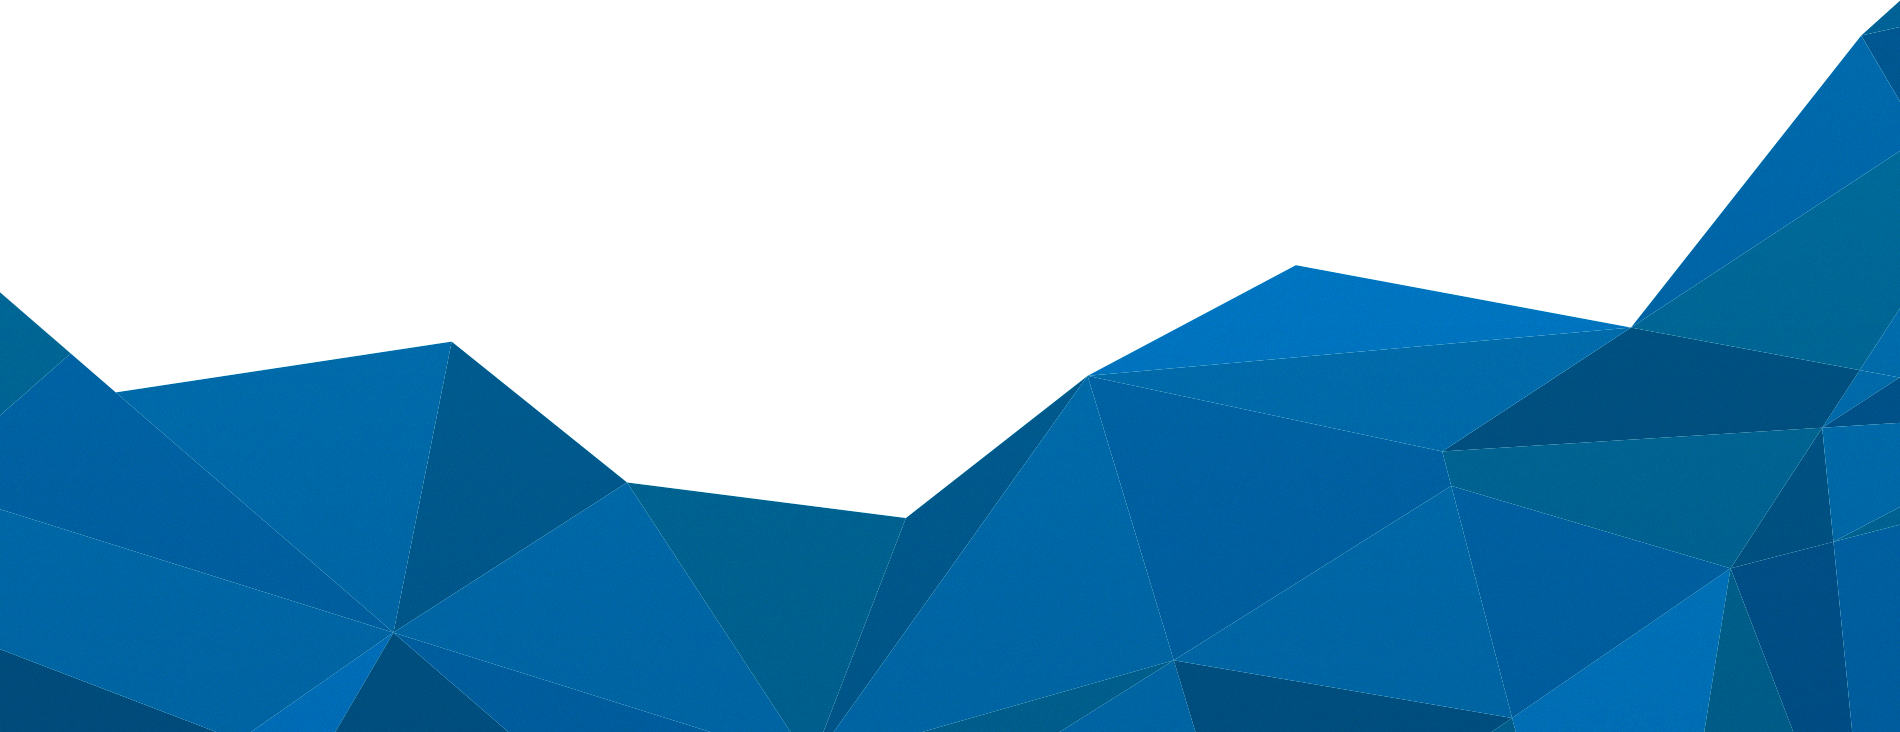
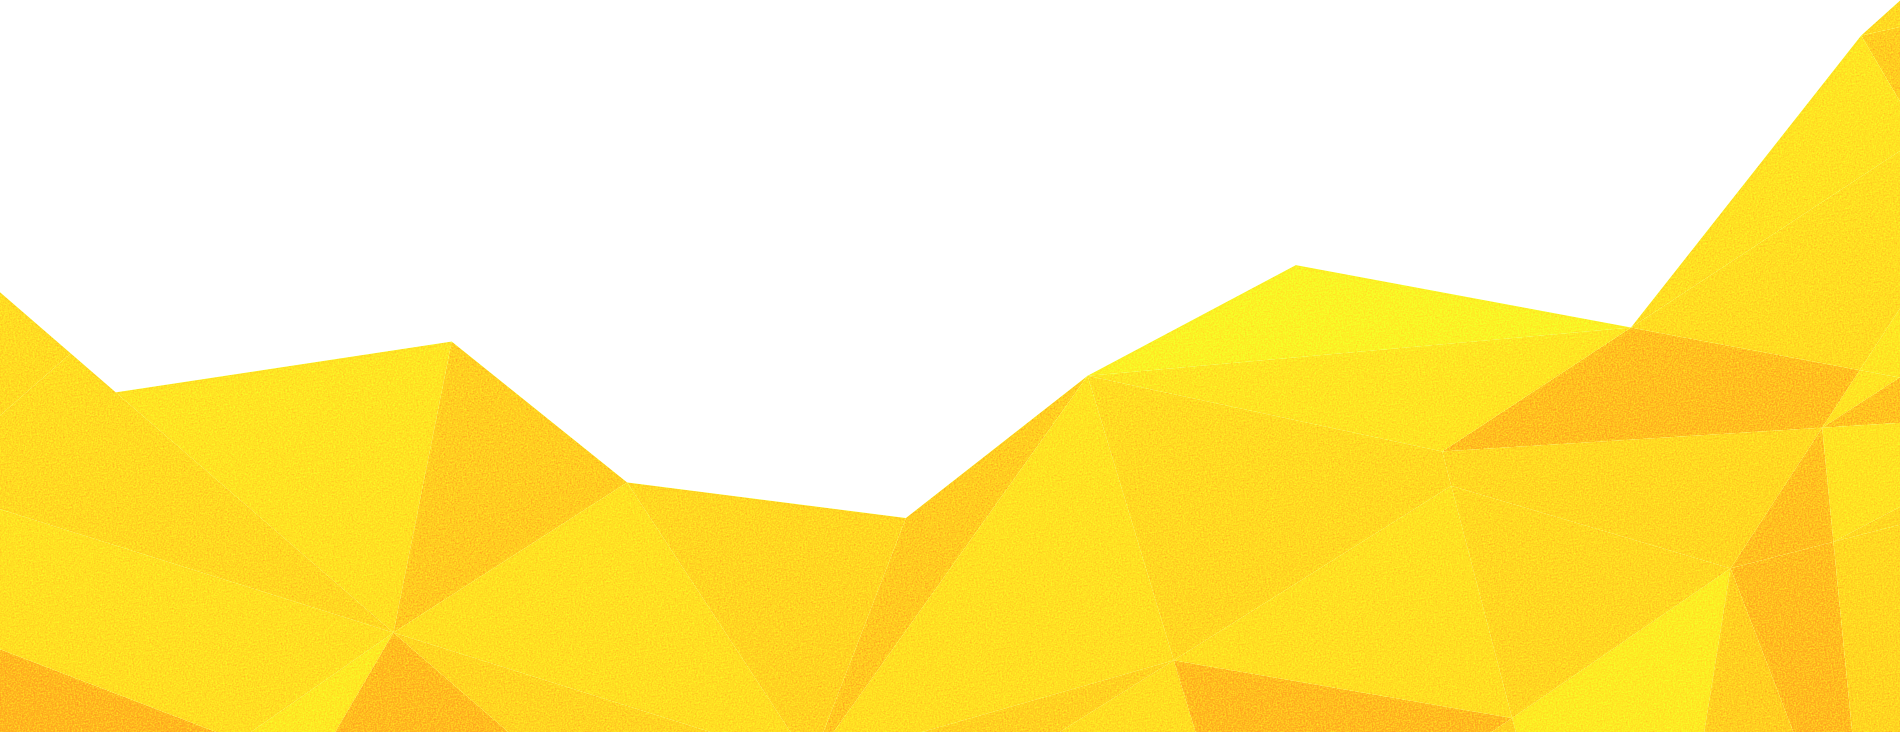
added wording, content images and changed background color

diff --git a/index.html b/index.html
@@ -58,11 +58,11 @@
             <!--Logo/-->
             <nav class="collapse navbar-collapse" id="primary-menu">
                 <ul class="nav navbar-nav navbar-right">
-                    <li class="active"><a href="#home-page">Home</a></li>
-                    <li><a href="#service-page">Services</a></li>                    
-                    <li><a href="#price-page">Pricing</a></li>
-                    <li><a href="#team-page">Team</a></li>                
-                    <li><a href="#contact-page">Contact</a></li>
+                    <li class="active"><a href="#home">Home</a></li>
+                    <li><a href="#service">Services</a></li>                    
+                    <li><a href="#pricing">Pricing</a></li>
+                    <li><a href="#team">Team</a></li>                
+                    <li><a href="#contact">Contact</a></li>
                 </ul>
             </nav>
         </div>
@@ -70,34 +70,33 @@
     <!--Mainmenu-area/-->
 
 
-
     <!--Header-area-->
-    <header class="header-area overlay full-height relative v-center" id="home-page">
+    <header class="header-area overlay full-height relative v-center" id="home">
         <div class="absolute anlge-bg"></div>
         <div class="container">
             <div class="row v-center">
                 <div class="col-xs-12 col-md-7 header-text">
                     <h2>We're all about helping you build and promote your brand</h2>
-                    <p>Lorem ipsum dolor sit amet, consectetur adipisicing elit. Libero ex inventore vel error quibusdam animi fugiat, doloribus dolores consectetur nulla deleniti sint blanditiis quod debitis quis vitae officiis tempora numquam.</p>
+                    <p>We offer quality web design services.</p>
                     <a href="#" class="button white">Watch video</a>
                 </div>
                 <div class="hidden-xs hidden-sm col-md-5 text-right">
                     <div class="screen-box screen-slider">
                         <div class="item">
-                            <img src="images/screen-1.jpg" alt="">
+                            <img src="./images/phone-content.PNG" alt="">
                         </div>
                         <div class="item">
-                            <img src="images/screen-2.jpg" alt="">
+                            <img src="images/phone-content2.PNG" alt="">
                         </div>
                         <div class="item">
-                            <img src="images/screen-3.jpg" alt="">
+                            <img src="images/phone-content3.PNG" alt="">
                         </div>
-                        <div class="item">
+                        <!-- <div class="item">
                             <img src="images/screen-4.jpg" alt="">
-                        </div>
-                        <div class="item">
+                        </div> -->
+                        <!-- <div class="item">
                             <img src="images/screen-5.jpg" alt="">
-                        </div>
+                        </div> -->
                     </div>
                 </div>
             </div>
@@ -106,36 +105,42 @@
     <!--Header-area/-->
 
 
-
     <!--Feature-area-->
-    <section class="gray-bg section-padding" id="service-page">
+    <section class="gray-bg section-padding" id="service">
         <div class="container">
             <div class="row">
-                <div class="col-xs-12 col-sm-4">
-                    <div class="box">
-                        <div class="box-icon">
-                            <img src="images/service-icon-1.png" alt="">
-                        </div>
-                        <h4>Website Creation</h4>
-                        <p>Lorem ipsum dolor sit amt, consectet adop adipisicing elit, sed do eiusmod tepo raraincididunt ugt labore.</p>
+                <div class="col-xs-12 col-sm-6 col-sm-offset-3 text-center">
+                    <div class="page-title">
+                        <h2>Services</h2>
                     </div>
                 </div>
-                <div class="col-xs-12 col-sm-4">
+            </div>
+            <div class="row">
+                <div class="col-xs-12 col-sm-6">
+                    <div class="box">
+                        <div class="box-icon">
+                            <img src="images/portfolio-icon-6.png" alt="">
+                        </div>
+                        <h4>Website Creation</h4>
+                        <p>Whether you have an idea or not of how you want your website to look like ,we will help you transform those ideas into websites.We got you covered.</p>
+                    </div>
+                </div>
+                <!-- <div class="col-xs-12 col-sm-4">
                     <div class="box">
                         <div class="box-icon">
                             <img src="images/service-icon-2.png" alt="">
                         </div>
                         <h4>Logo Design</h4>
-                        <p>Lorem ipsum dolor sit amt, consectet adop adipisicing elit, sed do eiusmod tepo raraincididunt ugt labore.</p>
+                        <p>Need a logo for your business? We have experienced 3rd party graphic designers.</p>
                     </div>
-                </div>
-                <div class="col-xs-12 col-sm-4">
+                </div> -->
+                <div class="col-xs-12 col-sm-6">
                     <div class="box">
                         <div class="box-icon">
-                            <img src="images/service-icon-3.png" alt="">
+                            <img src="images/service-icon-2.png" alt="">
                         </div>
-                        <h4>Marketing Solutions</h4>
-                        <p>Lorem ipsum dolor sit amt, consectet adop adipisicing elit, sed do eiusmod tepo raraincididunt ugt labore.</p>
+                        <h4>24/7 Support</h4>
+                        <p>Simply send us an email at xteam@gmail.com and one of our team members will get back to you.</p>
                     </div>
                 </div>
             </div>
@@ -153,10 +158,10 @@
                                 <div class="v-center">
                                     <div class="col-xs-12 col-md-6">
                                         <div class="caption-title" data-animation="animated fadeInUp">
-                                            <h2>Website Creation</h2>
+                                            <h2>Website Design</h2>
                                         </div>
                                         <div class="caption-desc" data-animation="animated fadeInUp">
-                                            <p>Lorem ipsum dolor sit amet, consectetur adipisicing elit, sed do eiusmod tempor incididunt ut labore et dolore magna aliqua. Ut enim ad minim veniam, quis nostrud exercitation ullamco laboris nisi ut aliquip ex ea commodo consequat. Duis aute</p>
+                                            <p>All our websites are designed according to the latest web standards. (Cross browser and cross platform compatible)</p>
                                         </div>
                                         <div class="caption-button" data-animation="animated fadeInUp">
                                             <a href="#" class="button">Read more</a>
@@ -272,13 +277,13 @@
     </section>
 
 
-    <section class="price-area overlay section-padding" id="price-page">
+    <section class="price-area overlay section-padding" id="pricing">
         <div class="container">
             <div class="row">
                 <div class="col-xs-12 col-sm-6 col-sm-offset-3 text-center">
                     <div class="page-title">
-                        <h2>Afortable Price</h2>
-                        <p>Lorem ipsum dolor sit amet, consectetur adipisicing elit. Velit voluptates, temporibus at, facere harum fugiat!</p>
+                        <h2>Pricing</h2>
+                        <p>We provide affordable website design services to all small and medium sized businesses.</p>
                     </div>
                 </div>
             </div>
@@ -288,15 +293,13 @@
                         <h3 class="text-uppercase price-title">Basic</h3>
                         <hr>
                         <ul class="list-unstyled">
-                            <li><strong class="amount">$ <span class="big">20</span></strong>/Month</li>
-                            <li>100 MB Disk Space</li>
-                            <li>2 Subdomains</li>
-                            <li>5 Email Accounts</li>
-                            <li>Webmail Support</li>
-                            <li>Customer Support 24/7</li>
+                            <li><strong class="amount">R <span class="big">1500</span></strong>/Month</li>
+                            <li>5 Page Website Design</li>
+                            <li>12 Months Free Hosting</li>
+                            <li>Free Domain Registration</li>
                         </ul>
                         <hr>
-                        <a href="#" class="button">Purchase</a>
+                        <a href="#contact" class="button">Enquire Now</a>
                     </div>
                 </div>
                 <div class="col-xs-12 col-sm-4">
@@ -305,15 +308,14 @@
                         <h3 class="text-uppercase price-title">STANDARD</h3>
                         <hr>
                         <ul class="list-unstyled">
-                            <li><strong class="amount">$ <span class="big">39</span></strong>/Month</li>
-                            <li>100 MB Disk Space</li>
-                            <li>2 Subdomains</li>
-                            <li>5 Email Accounts</li>
-                            <li>Webmail Support</li>
-                            <li>Customer Support 24/7</li>
+                            <li><strong class="amount">R <span class="big">2000</span></strong>/Month</li>
+                            <li>10 Page Website Design</li>
+                            <li>12 Months Free Hosting</li>
+                            <li>Free Domain Registration</li>
+                            <li>3 Months Free Website Maintainence</li>
                         </ul>
                         <hr>
-                        <a href="#" class="button">Purchase</a>
+                        <a href="#contact" class="button">Enquire Now</a>
                     </div>
                 </div>
                 <div class="col-xs-12 col-sm-4">
@@ -321,15 +323,14 @@
                         <h3 class="text-uppercase price-title">UNLIMITED</h3>
                         <hr>
                         <ul class="list-unstyled">
-                            <li><strong class="amount">$ <span class="big">59</span></strong>/Month</li>
-                            <li>100 MB Disk Space</li>
-                            <li>2 Subdomains</li>
-                            <li>5 Email Accounts</li>
-                            <li>Webmail Support</li>
-                            <li>Customer Support 24/7</li>
+                            <li><strong class="amount">R <span class="big">500</span></strong>/Month</li>
+                            <li>15 Page Web App Design</li>
+                            <li>12 Months Free Hosting</li>
+                            <li>Free Domain Registration</li>
+                            <li>Unlimited Website Maintainence</li>
                         </ul>
                         <hr>
-                        <a href="#" class="button">Purchase</a>
+                        <a href="#contact" class="button">Enquire Now</a>
                     </div>
                 </div>
             </div>
@@ -337,14 +338,13 @@
     </section>
 
 
-
-    <section class="section-padding gray-bg" id="team-page">
+    <section class="section-padding gray-bg" id="team">
         <div class="container">
             <div class="row">
                 <div class="col-xs-12 col-sm-6 col-sm-offset-3 text-center">
                     <div class="page-title">
                         <h2>The Team Behind the Magic</h2>
-                        <p>Lorem ipsum dolor sit amet, consectetur adipisicing elit. Velit voluptates, temporibus at, facere harum fugiat!</p>
+                        <p>Meet our team of experienced developers and engineers.</p>
                     </div>
                 </div>
             </div>
@@ -397,8 +397,6 @@
             </div>
         </div>
     </section>
-
-
 
 
     <!-- <section class="testimonial-area section-padding gray-bg overlay">
@@ -523,7 +521,7 @@
     </section> -->
 
 
-    <footer class="footer-area relative sky-bg" id="contact-page">
+    <footer class="footer-area relative sky-bg" id="contact">
         <div class="absolute footer-bg"></div>
         <div class="footer-top">
             <div class="container">
@@ -542,7 +540,7 @@
                     <div class="y-">
                         <img src="images/phone-arrow.png" alt="">                
                         <p><strong>Telephone: </strong>
-                            <a href="callto:8801812726495">+8801812726495</a> <br />
+                            <a href="callto:8801812726495">0765679248</a> <br />
                         </p>
 
                     </div>
@@ -580,10 +578,6 @@
             </div>
         </div>
     </footer>
-
-
-
-
 
     <!--Vendor-JS-->
     <script src="js/vendor/jquery-1.12.4.min.js"></script>

diff --git a/style.css b/style.css
@@ -172,15 +172,23 @@ input:-webkit-autofill:focus {
 
 .overlay:before,
 .sky-bg {
-    background: #75cbe7;
+    background: #ffffff;
     background: -webkit-gradient(linear, left top, left bottom, from(#75cbe7), to(#138fc2));
-    background: linear-gradient(to bottom, #75cbe7 0%, #138fc2 100%);
+    background: linear-gradient(to bottom, #fac105 0%, #fbff11 100%); 
+    /* background: linear-gradient(to bottom, #faa805 0%, #ff1111 100%);  */
+    /* background: linear-gradient(to bottom, rgb(5 184 250) 0%, rgb(17 255 209 100%);  */
     filter: progid:DXImageTransform.Microsoft.gradient( startColorstr='#75cbe7', endColorstr='#138fc2', GradientType=0);
     color: #ffffff;
 }
 
+.mainmenu-area.affix {
+    background-color: #ffffff;
+}
+.header-area {
+    background: #000000 url('images/forest_12.jpg') no-repeat scroll center center / cover;
+}
 .gray-bg {
-    background-color: #f2fefe;
+    background-color: #fafafa;
 }
 
 /**
@@ -192,7 +200,7 @@ input:-webkit-autofill:focus {
     padding: 8px 30px;
     border-radius: 50px;
     color: #ffffff;
-    background-color: #2f60c3;
+    background-color: #2fafc3;
     -webkit-transition: 0.3s;
     transition: 0.3s;
     border: none;
@@ -305,7 +313,7 @@ input:-webkit-autofill:focus {
 .overlay,
 .overlay a,
 .mainmenu-area a {
-    color: #ffffff;
+    color: #000000;
 }
 
 .mainmenu-area .logo {
@@ -356,10 +364,6 @@ input:-webkit-autofill:focus {
     border-top: 3px solid #ffffff;
 }
 
-.mainmenu-area.affix {
-    background-color: #138fc2;
-}
-
 
 
 /**
@@ -367,13 +371,13 @@ input:-webkit-autofill:focus {
 **/
 
 .client-area,
-.header-area {
-    background: #000000 url('images/parallax-2.jpg') no-repeat scroll center center / cover;
-}
+/* .header-area {
+    background: #000000 url('images/forest_12.jpg') no-repeat scroll center center / cover;
+} */
 
-.anlge-bg {
+/* .anlge-bg {
     background: url('images/angle-bg.png') no-repeat scroll center bottom -120px / 100% auto;
-}
+} */
 
 .overlay {
     position: relative;
@@ -642,7 +646,7 @@ input:-webkit-autofill:focus {
 ***/
 
 .price-area {
-    background: url('images/parallax-6.jpg') no-repeat scroll center center / cover
+    background: url('images/forest_12.jpg') no-repeat scroll center center / cover
 }
 
 .price-table h3 {
@@ -791,7 +795,7 @@ input:-webkit-autofill:focus {
 }
 
 .footer-bg {
-    background: url('images/angle-bg.png') no-repeat scroll center bottom / 100% auto;
+    background: url('') no-repeat scroll center bottom / 100% auto;
     z-index: -1;
 }
 
